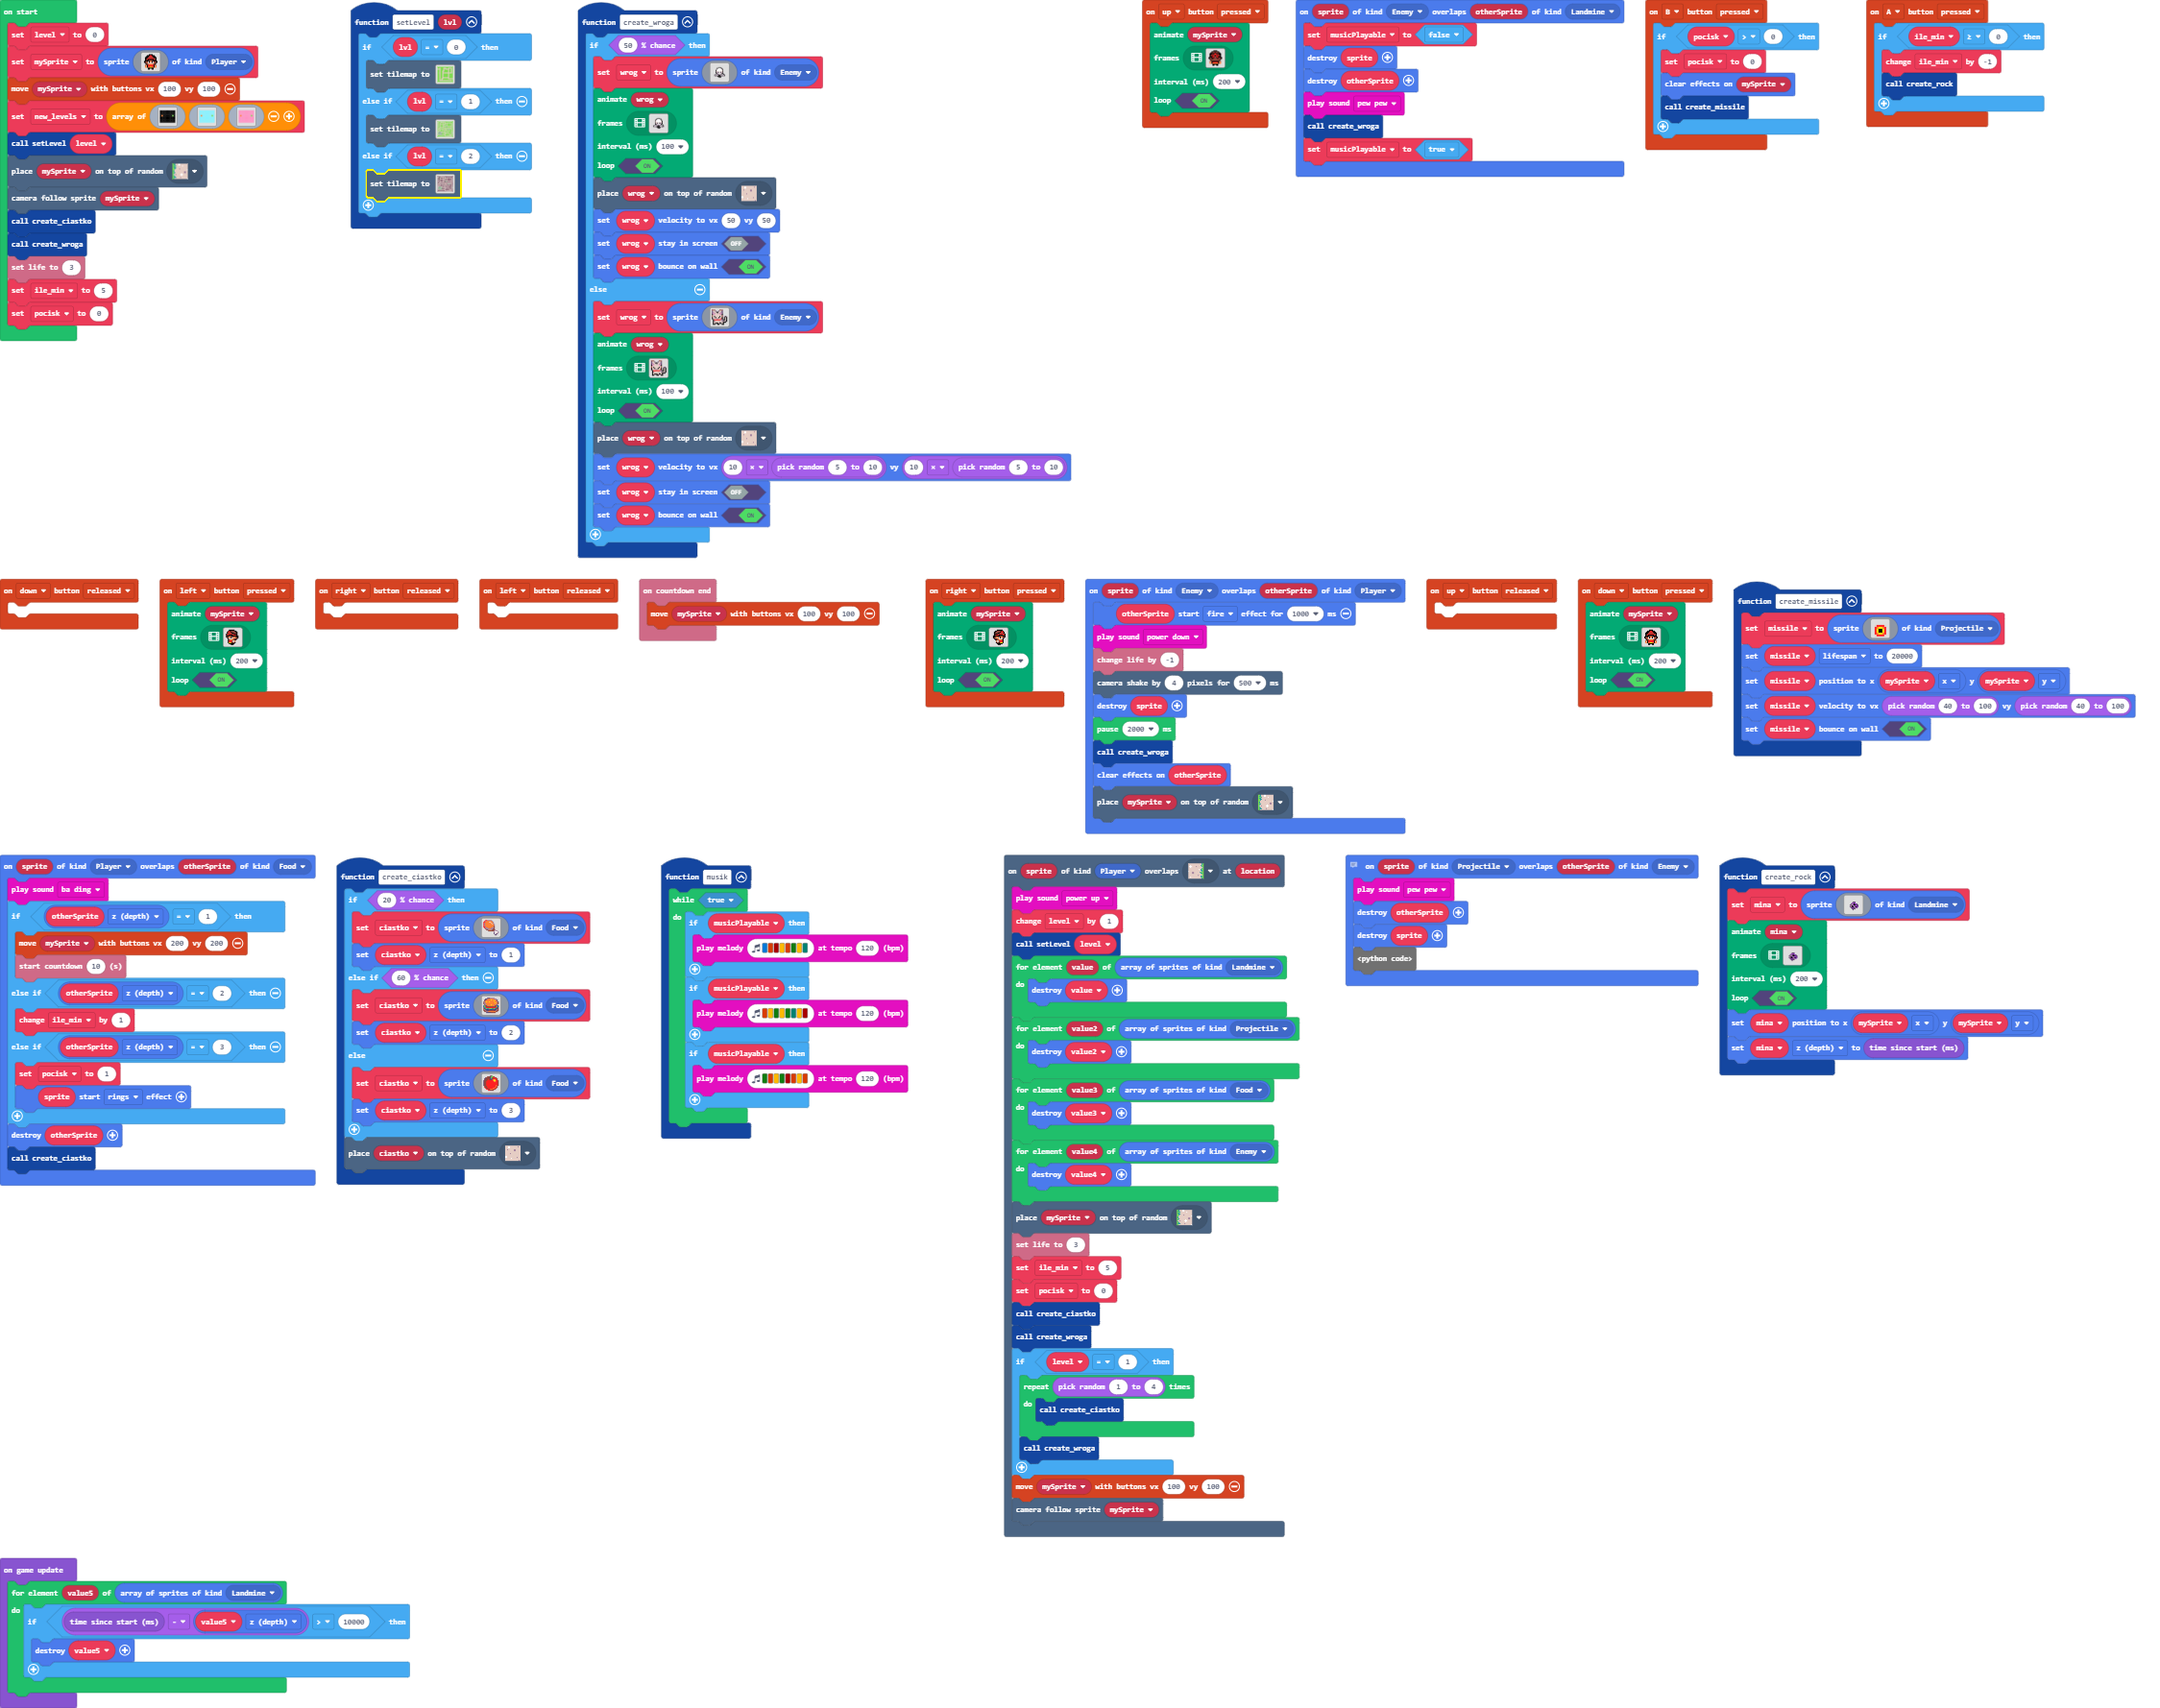
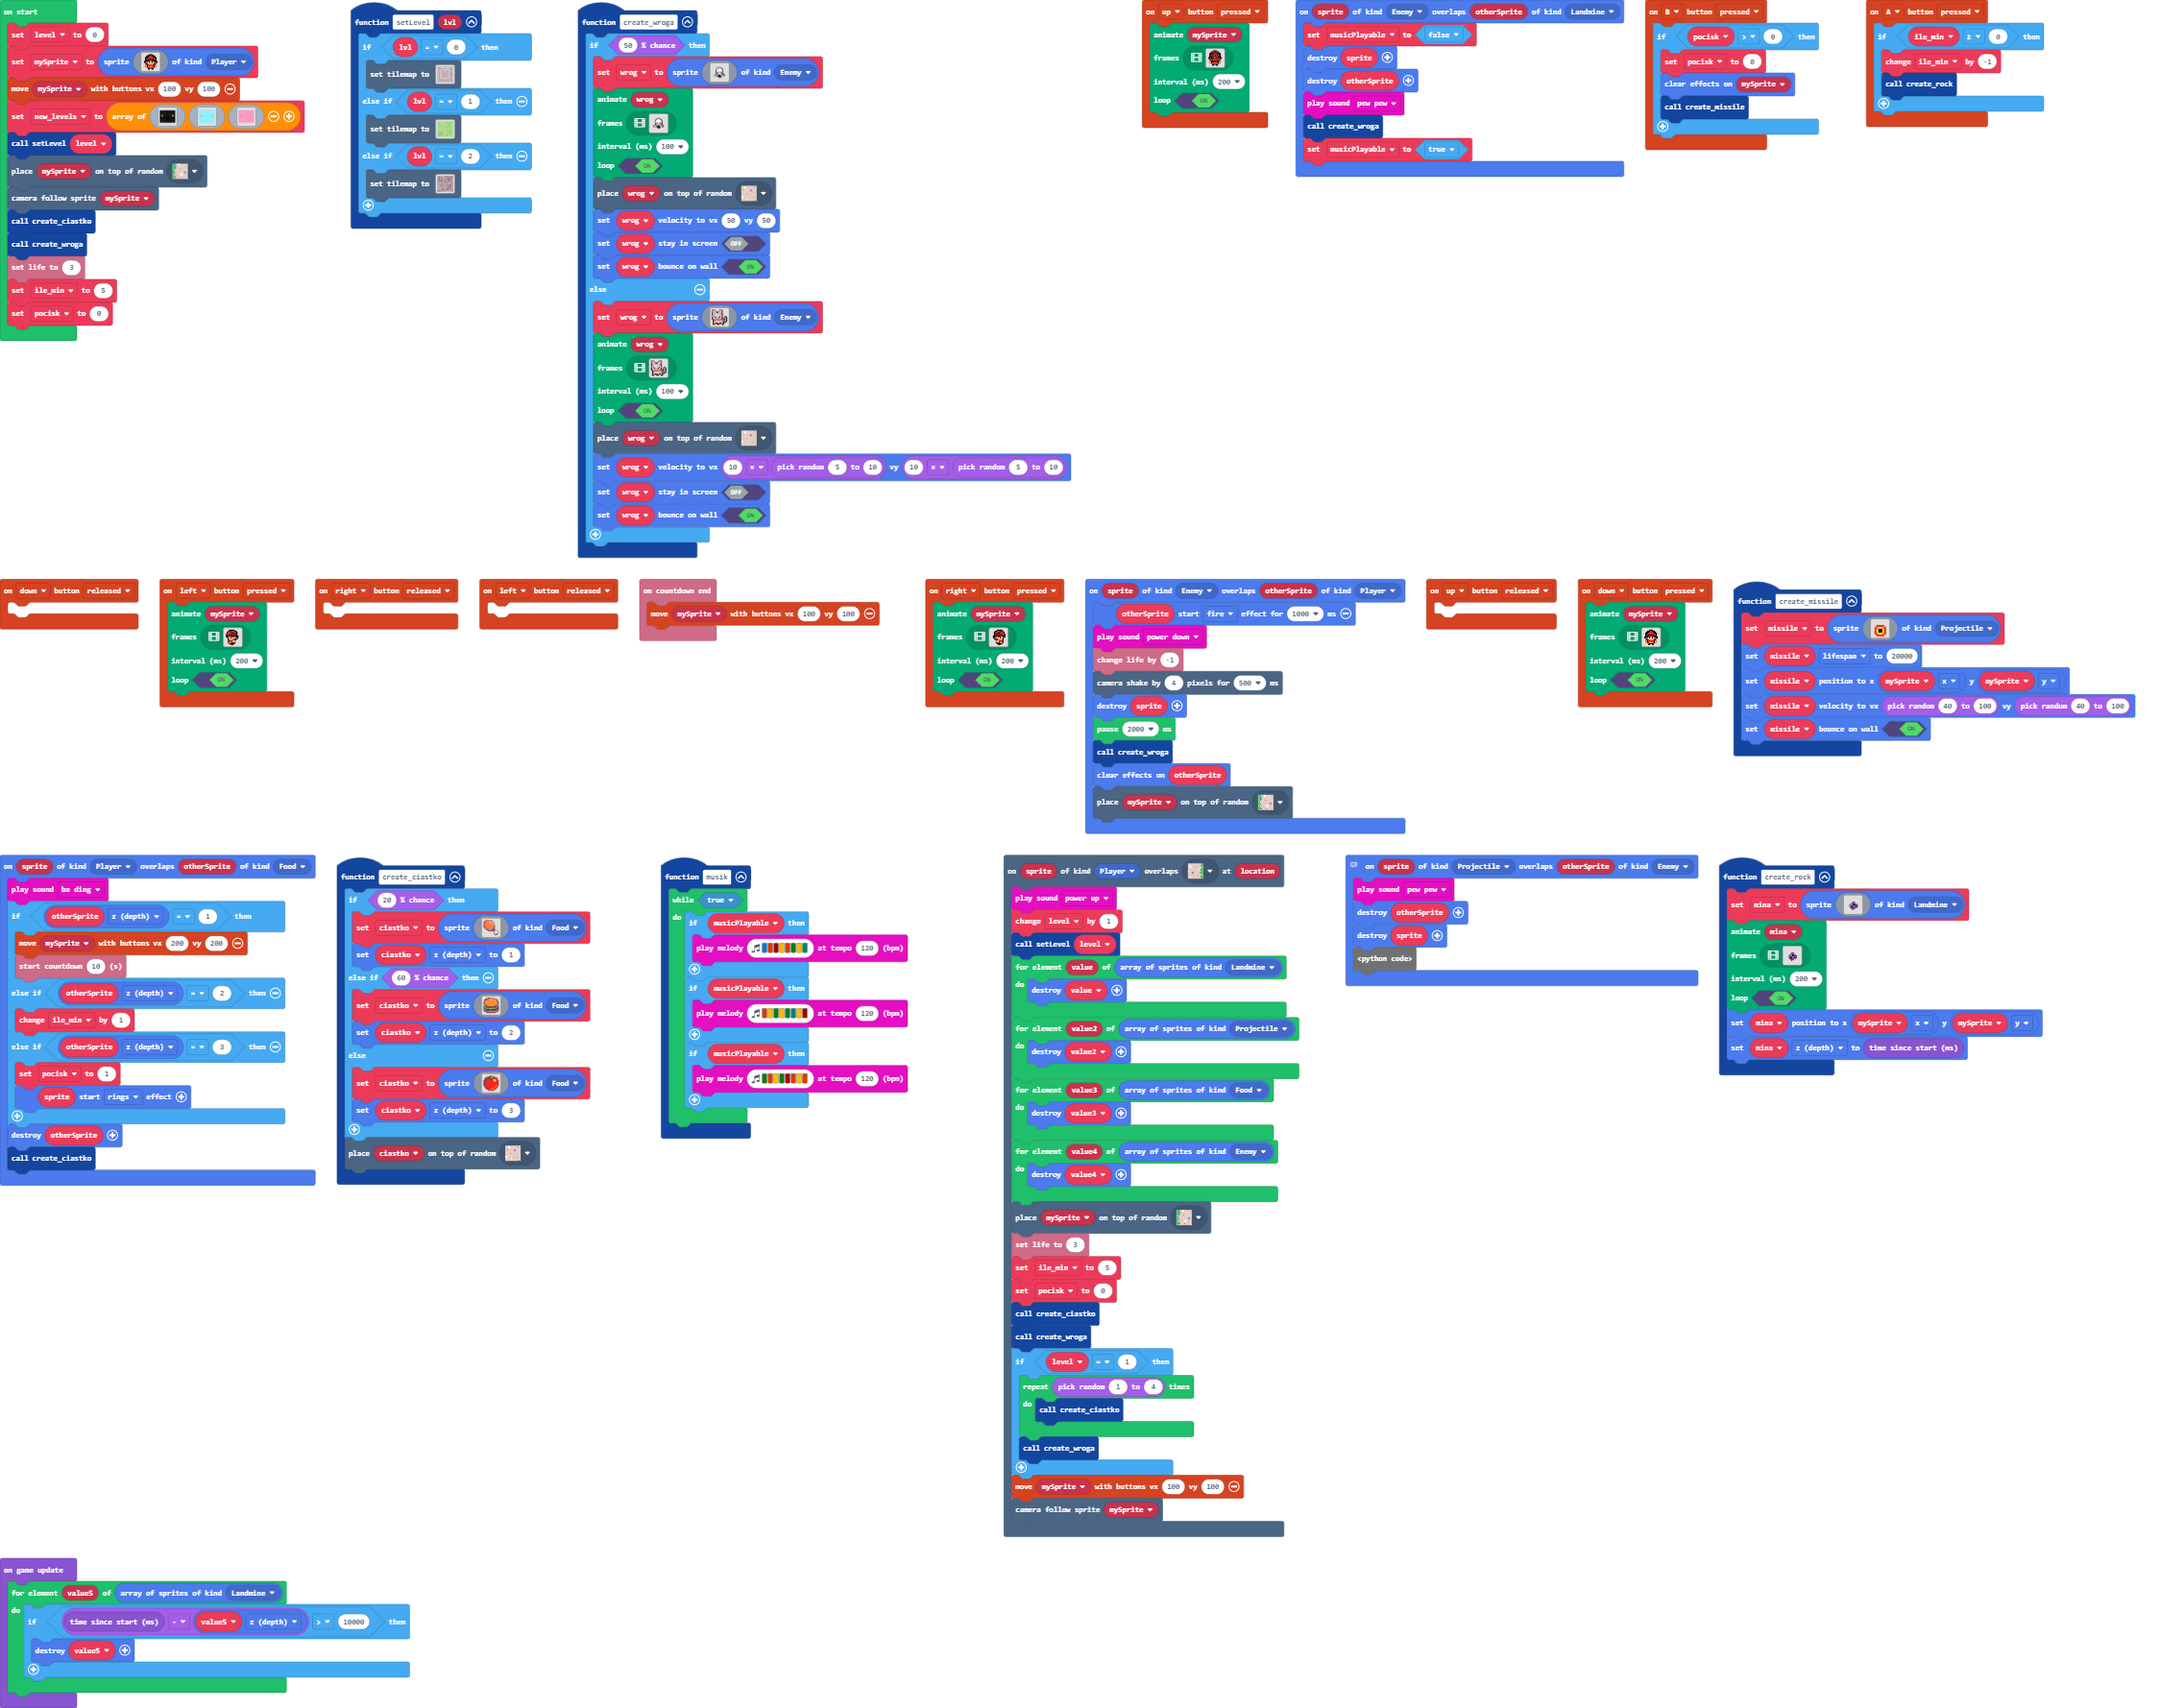
moja mapa

diff --git a/tilemap.g.ts b/tilemap.g.ts
@@ -2,6 +2,8 @@
 namespace myTiles {
     //% fixedInstance jres blockIdentity=images._tile
     export const transparency16 = image.ofBuffer(hex``);
+    //% fixedInstance jres blockIdentity=images._tile
+    export const tile1 = image.ofBuffer(hex``);
 
     helpers._registerFactory("tilemap", function(name: string) {
         switch(helpers.stringTrim(name)) {
@@ -222,39 +224,6 @@ namespace myTiles {
 22222222222222..............22
 222222222222222222222222222222
 `, [myTiles.transparency16,sprites.castle.tilePath4,sprites.builtin.forestTiles0,sprites.builtin.forestTiles26,sprites.builtin.forestTiles6,sprites.builtin.forestTiles12,sprites.builtin.forestTiles16,sprites.builtin.forestTiles4,sprites.castle.tilePath6,sprites.dungeon.darkGroundCenter,sprites.dungeon.chestOpen,sprites.dungeon.collectibleInsignia,sprites.dungeon.doorLockedSouth,sprites.dungeon.doorLockedEast,sprites.dungeon.doorLockedNorth,sprites.dungeon.floorLight0,sprites.dungeon.floorLight1,sprites.dungeon.floorLightMoss,sprites.dungeon.floorLight3,sprites.dungeon.floorDark1,sprites.dungeon.floorDark3,sprites.dungeon.floorDark5,sprites.dungeon.greenOuterNorthWest,sprites.dungeon.greenOuterNorth0,sprites.dungeon.greenOuterNorthEast,sprites.dungeon.greenOuterEast0,sprites.dungeon.greenOuterWest1,sprites.dungeon.greenOuterSouthEast,sprites.dungeon.greenOuterSouthWest,sprites.dungeon.greenOuterSouth0,sprites.dungeon.greenOuterSouth1,sprites.dungeon.greenOuterNorth2], TileScale.Sixteen);
-            case "level_Adam":
[1 lines of base64/hex data omitted]
-222222222222222222222222222222
-22.222...22....222222222222222
-...222.2....22.222222222222222
-22.222.2222.22..............22
-22.22..2222.22.222.22222222.22
-22.22.22222.22.222.22222222.22
-22.22..........222.22222222.22
-22.22.22222.222222.22222222.22
-22.22.22222.222222.22222222.22
-22.22.22222.................22
-22.22.22222.222222222222222.22
-22.22.......222222222222222.22
-22.2..22222.................22
-22.2.2222222222.22222222222.22
-2...........................22
-2.22222222.2222.222222.2222.22
-2.....2222.22......222.2222.22
-22222.2222.22.2.22.222.2222.22
-2.....2222.22.2.22.222.2222.22
-2.22222222.22.2.22.222.2222.22
-2..........22.2.22.....2222.22
-2.22222.22222.2.22222222222.22
-2.22..2.......2.22222222222...
-2.22.22.222222..........222.22
-2.2.....222222.22222222.222.22
-2.222222222222.22222222.222.22
-2..............22222222.....22
-22222222222222.222222222222.22
-22222222222222..............22
-222222222222222222222222222222
-`, [myTiles.transparency16,sprites.castle.tilePath4,sprites.builtin.forestTiles0,sprites.builtin.forestTiles26,sprites.builtin.forestTiles6,sprites.builtin.forestTiles12,sprites.builtin.forestTiles16,sprites.builtin.forestTiles4,sprites.castle.tilePath6,sprites.dungeon.darkGroundCenter,sprites.dungeon.chestOpen,sprites.dungeon.collectibleInsignia,sprites.dungeon.doorLockedSouth,sprites.dungeon.doorLockedEast,sprites.dungeon.doorLockedNorth,sprites.dungeon.floorLight0,sprites.dungeon.floorLight1,sprites.dungeon.floorLightMoss,sprites.dungeon.floorLight3,sprites.dungeon.floorDark1,sprites.dungeon.floorDark3,sprites.dungeon.floorDark5,sprites.dungeon.greenOuterNorthWest,sprites.dungeon.greenOuterNorth0,sprites.dungeon.greenOuterNorthEast,sprites.dungeon.greenOuterEast0,sprites.dungeon.greenOuterWest1,sprites.dungeon.greenOuterSouthEast,sprites.dungeon.greenOuterSouthWest,sprites.dungeon.greenOuterSouth0,sprites.dungeon.greenOuterSouth1,sprites.dungeon.greenOuterNorth2], TileScale.Sixteen);
             case "level_Michal":
[1 lines of base64/hex data omitted]
 222222222222222222222222222222
@@ -354,6 +323,96 @@ namespace myTiles {
 22222222222222..............22
 222222222222222222222222222222
 `, [myTiles.transparency16,sprites.castle.tilePath4,sprites.builtin.forestTiles0,sprites.builtin.forestTiles26,sprites.builtin.forestTiles6,sprites.builtin.forestTiles12,sprites.builtin.forestTiles16,sprites.builtin.forestTiles4,sprites.castle.tilePath6,sprites.dungeon.darkGroundCenter,sprites.dungeon.chestOpen,sprites.dungeon.collectibleInsignia,sprites.dungeon.doorLockedSouth,sprites.dungeon.doorLockedEast,sprites.dungeon.doorLockedNorth,sprites.dungeon.floorLight0,sprites.dungeon.floorLight1,sprites.dungeon.floorLightMoss,sprites.dungeon.floorLight3,sprites.dungeon.floorDark1,sprites.dungeon.floorDark3,sprites.dungeon.floorDark5,sprites.dungeon.greenOuterNorthWest,sprites.dungeon.greenOuterNorth0,sprites.dungeon.greenOuterNorthEast,sprites.dungeon.greenOuterEast0,sprites.dungeon.greenOuterWest1,sprites.dungeon.greenOuterSouthEast,sprites.dungeon.greenOuterSouthWest,sprites.dungeon.greenOuterSouth0,sprites.dungeon.greenOuterSouth1,sprites.dungeon.greenOuterNorth2], TileScale.Sixteen);
+            case "level9":
+            case "level9":return tiles.createTilemap(hex`1000100000000000000000000000000000000000000000000000000000000000000000000000000000000000000000000000000000000000000000000000000000000000000000000000000000000000000000000000000000000000000000000000000000000000000000000000000000000000000000000000000000000000000000000000000000000000000000000000000000000000000000000000000000000000000000000000000000000000000000000000000000000000000000000000000000000000000000000000000000000000000000000000000000000000000000000000000000000000000000000000000000000000000000000000000000000000`, img`
+. . . . . . . . . . . . . . . . 
+. . . . . . . . . . . . . . . . 
+. . . . . . . . . . . . . . . . 
+. . . . . . . . . . . . . . . . 
+. . . . . . . . . . . . . . . . 
+. . . . . . . . . . . . . . . . 
+. . . . . . . . . . . . . . . . 
+. . . . . . . . . . . . . . . . 
+. . . . . . . . . . . . . . . . 
+. . . . . . . . . . . . . . . . 
+. . . . . . . . . . . . . . . . 
+. . . . . . . . . . . . . . . . 
+. . . . . . . . . . . . . . . . 
+. . . . . . . . . . . . . . . . 
+. . . . . . . . . . . . . . . . 
+. . . . . . . . . . . . . . . . 
+`, [myTiles.transparency16], TileScale.Sixteen);
+            case "level10":
+            case "level10":return tiles.createTilemap(hex`1000100000000000000000000000000000000000000000000000000000000000000000000000000000000000000000000000000000000000000000000000000000000000000000000000000000000000000000000000000000000000000000000000000000000000000000000000000000000000000000000000000000000000000000000000000000000000000000000000000000000000000000000000000000000000000000000000000000000000000000000000000000000000000000000000000000000000000000000000000000000000000000000000000000000000000000000000000000000000000000000000000000000000000000000000000000000000`, img`
+. . . . . . . . . . . . . . . . 
+. . . . . . . . . . . . . . . . 
+. . . . . . . . . . . . . . . . 
+. . . . . . . . . . . . . . . . 
+. . . . . . . . . . . . . . . . 
+. . . . . . . . . . . . . . . . 
+. . . . . . . . . . . . . . . . 
+. . . . . . . . . . . . . . . . 
+. . . . . . . . . . . . . . . . 
+. . . . . . . . . . . . . . . . 
+. . . . . . . . . . . . . . . . 
+. . . . . . . . . . . . . . . . 
+. . . . . . . . . . . . . . . . 
+. . . . . . . . . . . . . . . . 
+. . . . . . . . . . . . . . . . 
+. . . . . . . . . . . . . . . . 
+`, [myTiles.transparency16], TileScale.Sixteen);
+            case "level11":
+            case "level11":return tiles.createTilemap(hex`1000100000000000000000000000000000000000000000000000000000000000000000000000000000000000000000000000000000000000000000000000000000000000000000000000000000000000000000000000000000000000000000000000000000000000000000000000000000000000000000000000000000000000000000000000000000000000000000000000000000000000000000000000000000000000000000000000000000000000000000000000000000000000000000000000000000000000000000000000000000000000000000000000000000000000000000000000000000000000000000000000000000000000000000000000000000000000`, img`
+. . . . . . . . . . . . . . . . 
+. . . . . . . . . . . . . . . . 
+. . . . . . . . . . . . . . . . 
+. . . . . . . . . . . . . . . . 
+. . . . . . . . . . . . . . . . 
+. . . . . . . . . . . . . . . . 
+. . . . . . . . . . . . . . . . 
+. . . . . . . . . . . . . . . . 
+. . . . . . . . . . . . . . . . 
+. . . . . . . . . . . . . . . . 
+. . . . . . . . . . . . . . . . 
+. . . . . . . . . . . . . . . . 
+. . . . . . . . . . . . . . . . 
+. . . . . . . . . . . . . . . . 
+. . . . . . . . . . . . . . . . 
+. . . . . . . . . . . . . . . . 
+`, [myTiles.transparency16], TileScale.Sixteen);
+            case "level_Adam":
[1 lines of base64/hex data omitted]
+222222222222222222222222222222
+2............................2
+2.2222.22222222222222222.222.2
+2.2........................2.2
+2.2.222222222222222.222222.2.2
+2...2....................2.2.2
+2.2.2.222.222222222.2222.2.2.2
+2.2.2.2................2.2.2.2
+2.2...2.22222222222222.2.....2
+2.2.2.2.2..........2.2.2.2.2.2
+2.2.2.2.2.22222222.2.2.2.2.2.2
+2.2.2.2.2.2........2.2.2.2.2.2
+2.2.2.2.2.2.2.22.2.2.2.2.2.2.2
+2.2.2.2.2.2.2.22.2.2.2.2.2.2.2
+2.2.2.2.2.2.2..2.2.2.2.2.2.2.2
+..2.2.2.2.2.2.22.2.2.2.2.2.2.2
+2.2.2.2.2.2.2.22.2.2.2.2.2.2.2
+2.2.2.2.2.2.2.22.2.2.2.2.2.2.2
+2.2...2.2.2........2.2.2.2.2.2
+2.2.2.2.2.2222222222.2.2.2.2.2
+2.2.2.2.2............2.2...2.2
+2.2.2.2.22222222222222.2.2.2.2
+2.2.2.2................2.2.2.2
+2...2.222.222222222.2222.2...2
+2.2.2....................2.2.2
+2.2.2222.22222222222222222.2.2
+2.2........................2.2
+2.22222222222222222222222222.2
+2............................2
+222222222222222222222222222222
+`, [myTiles.transparency16,sprites.castle.tilePath4,sprites.castle.tilePath6,sprites.dungeon.doorLockedSouth,sprites.dungeon.doorLockedEast,sprites.dungeon.doorLockedNorth,sprites.dungeon.floorDark1,sprites.dungeon.floorDark3,sprites.dungeon.floorDark5,sprites.dungeon.greenOuterNorthWest,sprites.dungeon.greenOuterNorth0,sprites.dungeon.greenOuterNorthEast,sprites.dungeon.greenOuterEast0,sprites.dungeon.greenOuterWest1,sprites.dungeon.greenOuterSouthEast,sprites.dungeon.greenOuterSouthWest,sprites.dungeon.greenOuterSouth0,sprites.castle.tilePath5,myTiles.tile1,sprites.dungeon.doorLockedWest,sprites.dungeon.floorDark0,sprites.dungeon.floorDarkDiamond,sprites.dungeon.floorDark4,sprites.dungeon.greenOuterNorth1], TileScale.Sixteen);
         }
         return null;
     })
@@ -361,6 +420,8 @@ namespace myTiles {
     helpers._registerFactory("tile", function(name: string) {
         switch(helpers.stringTrim(name)) {
             case "transparency16":return transparency16;
+            case "tile":
+            case "tile1":return tile1;
         }
         return null;
     })

diff --git a/main.ts b/main.ts
@@ -3,7 +3,7 @@ namespace SpriteKind {
 }
 function setLevel (lvl: number) {
     if (lvl == 0) {
-        tiles.setTilemap(tilemap`level1`)
+        tiles.setTilemap(tilemap`level_Adam`)
     } else if (lvl == 1) {
         tiles.setTilemap(tilemap`level2`)
     } else if (lvl == 2) {
